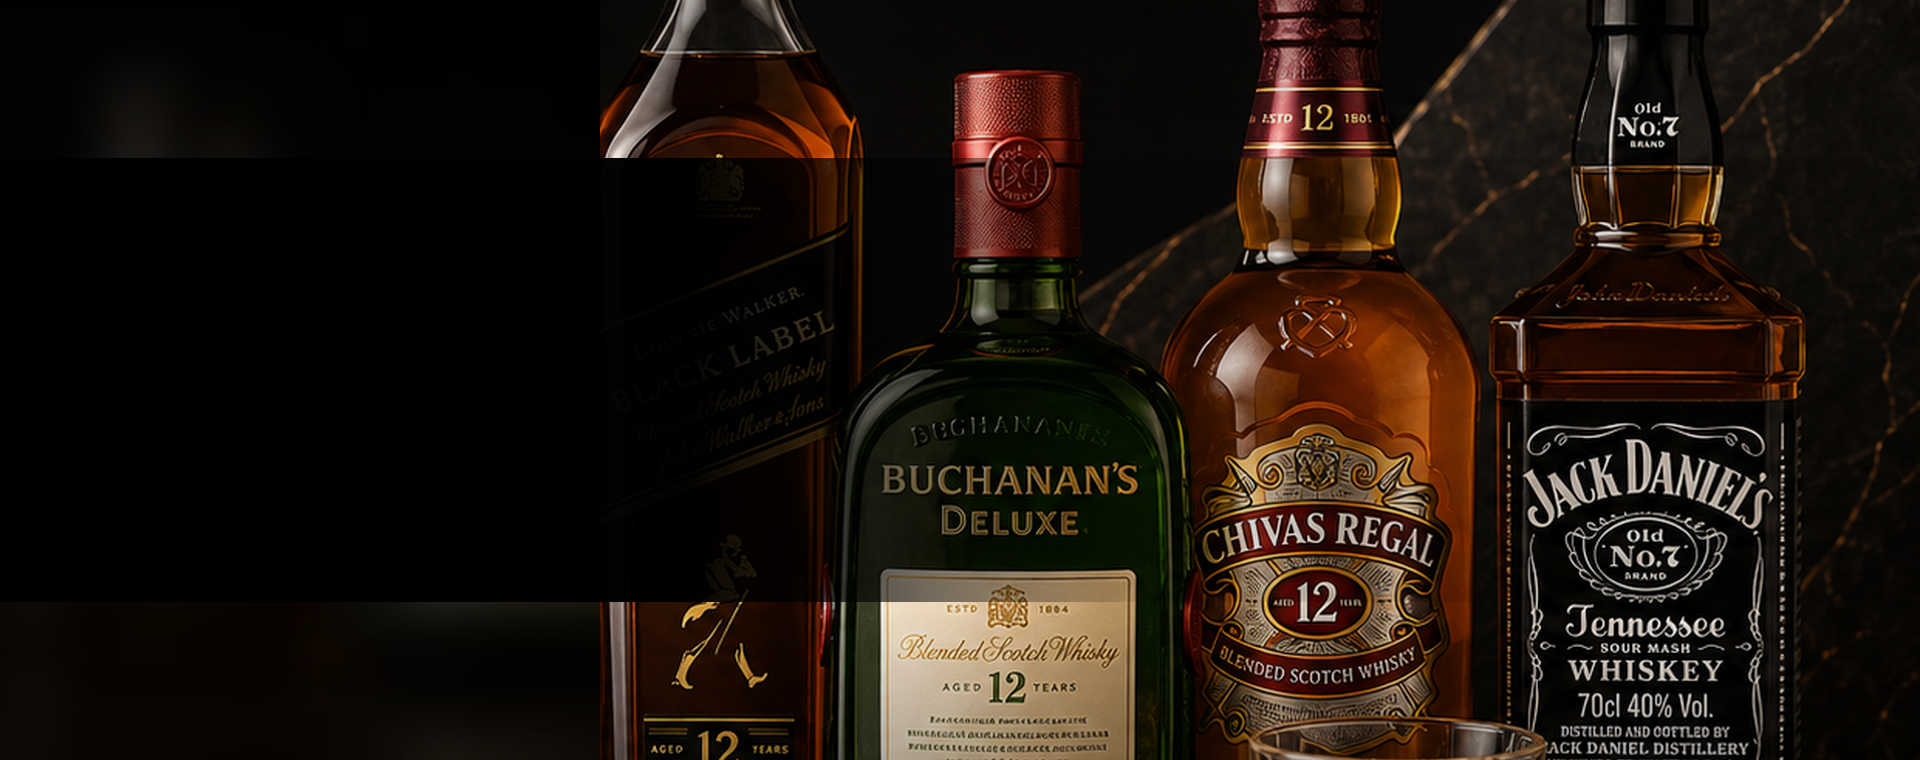
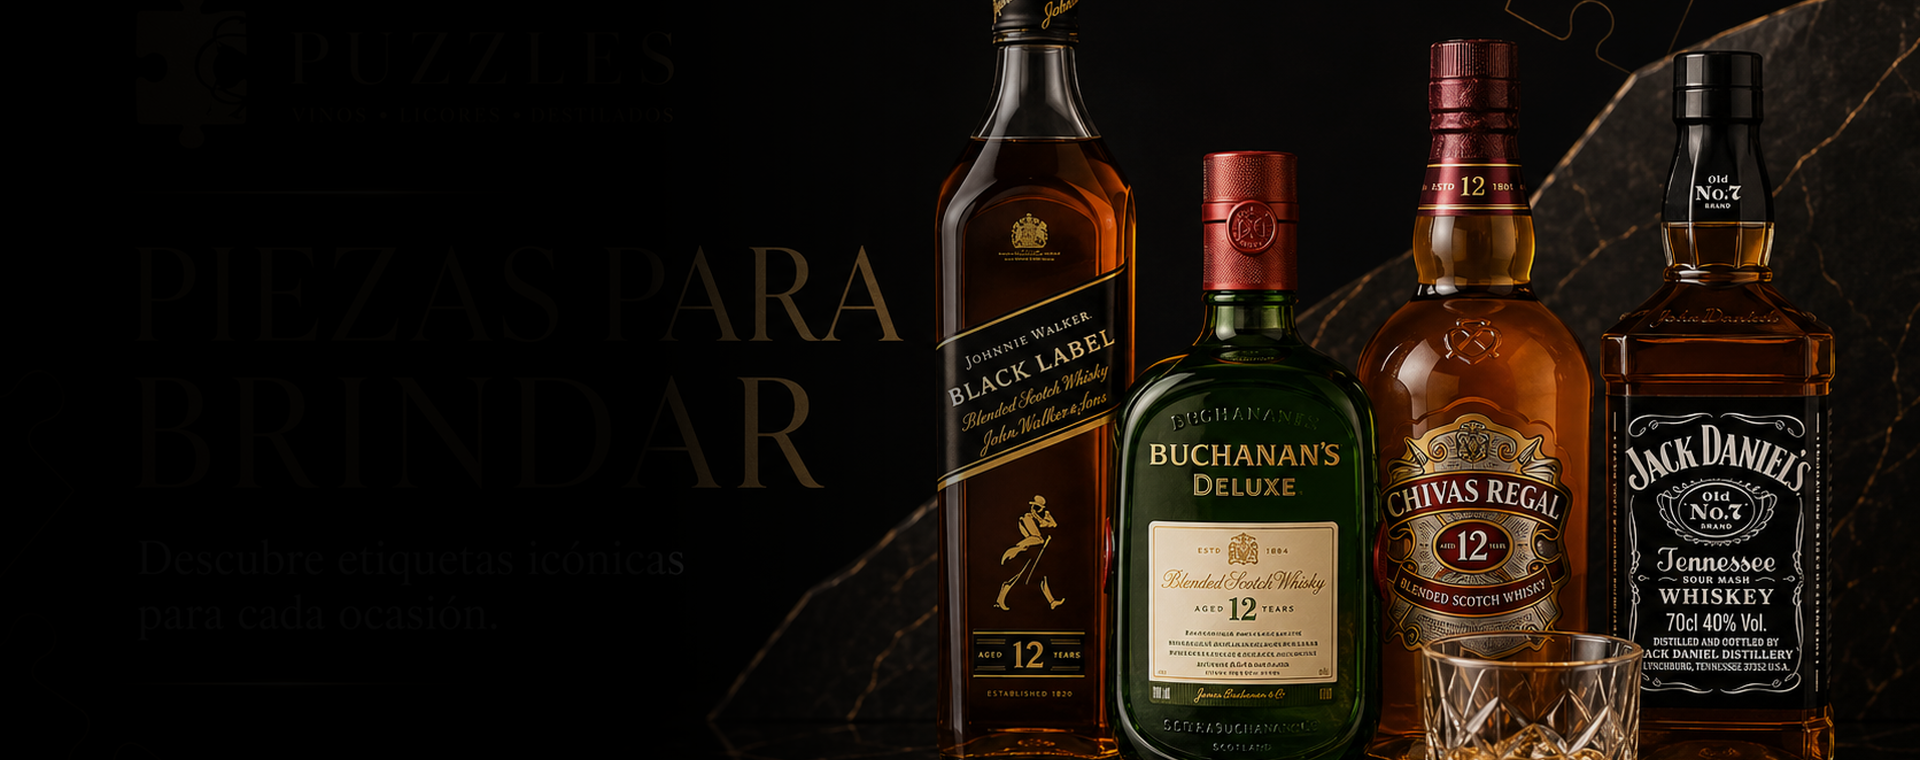
8

diff --git a/assets/puzzles-app-v1.5.8.js b/assets/puzzles-app-v1.5.8.js
@@ -150,13 +150,18 @@
 
       cacheDom();
 
-      // La tienda siempre abre en cuadrícula.
-      // Una preferencia vieja no puede forzar el modo lista.
+      // La vista inicial depende del dispositivo:
+      // móvil abre en lista y escritorio abre en cuadrícula.
+      // No se recuperan preferencias antiguas.
       puzzlesStorageRemove(
         STORAGE_KEYS.VIEW
       );
 
-      state.view = 'grid';
+      state.view = window.matchMedia(
+        '(max-width: 760px)'
+      ).matches
+        ? 'table'
+        : 'grid';
       bindEvents();
       restoreAgeGate();
       restoreCustomer();
@@ -1713,8 +1718,8 @@
 
           return `
             <article class="product-card" data-code="${escapeAttr(product.code)}">
-              <button class="product-card__visual product-open-button" type="button" data-product-detail="${escapeAttr(product.code)}" aria-label="Ver información de ${escapeAttr(product.displayName)}">
-                <div class="product-image-fallback" aria-hidden="true">
+              <button class="product-card__visual product-open-button" data-darkreader-lock style="background-color:#fff!important;color-scheme:light!important;forced-color-adjust:none!important" type="button" data-product-detail="${escapeAttr(product.code)}" aria-label="Ver información de ${escapeAttr(product.displayName)}">
+                <div class="product-image-fallback" data-darkreader-lock style="background-color:#fff!important;color-scheme:light!important;forced-color-adjust:none!important" aria-hidden="true">
                   <span>${escapeHtml(categoryLetter(product.category))}</span>
                 </div>
                 ${productImageMarkup(product, 'product-card__image', product.displayName)}
@@ -1810,8 +1815,8 @@
                 <tr>
                   <td class="product-table__product">
                     <button class="product-table__product-wrap product-row-button" type="button" data-product-detail="${escapeAttr(product.code)}">
-                      <span class="product-table__thumb">
-                        <span class="product-image-fallback" aria-hidden="true">
+                      <span class="product-table__thumb" data-darkreader-lock style="background-color:#fff!important;color-scheme:light!important;forced-color-adjust:none!important">
+                        <span class="product-image-fallback" data-darkreader-lock style="background-color:#fff!important;color-scheme:light!important;forced-color-adjust:none!important" aria-hidden="true">
                           <span>${escapeHtml(categoryLetter(product.category))}</span>
                         </span>
                         ${productImageMarkup(product, 'product-table__image', product.displayName)}
@@ -1912,10 +1917,12 @@
           class="${escapeAttr(className)} js-product-image"
           src="${escapeAttr(displayUrl)}"
           data-original-src="${escapeAttr(product.imageUrl)}"
+          data-darkreader-lock
           alt="${escapeAttr(alt || '')}"
           loading="lazy"
           decoding="async"
           referrerpolicy="no-referrer"
+          style="background-color:#fff!important;color-scheme:light!important;forced-color-adjust:none!important;filter:none!important;mix-blend-mode:normal!important"
         >`;
     }
 
@@ -3665,10 +3672,14 @@
             'ffffff'
           );
           proxyUrl.searchParams.set(
+            'bg',
+            'ffffff'
+          );
+          proxyUrl.searchParams.set(
             'output',
             'webp'
           );
-          proxyUrl.searchParams.set('q', '86');
+          proxyUrl.searchParams.set('q', '87');
           proxyUrl.searchParams.set('we', '1');
 
           return proxyUrl.toString();
@@ -3679,7 +3690,7 @@
         'https://images.weserv.nl/?url=' +
         encodeURIComponent(source) +
         '&w=900&h=900&fit=contain' +
-        '&cbg=ffffff&output=webp&q=86&we=1'
+        '&cbg=ffffff&bg=ffffff&output=webp&q=87&we=1'
       );
     }
 

diff --git a/assets/puzzles-app-v1.5.8.css b/assets/puzzles-app-v1.5.8.css
@@ -4940,3 +4940,134 @@ body[data-catalog-view="table"] #tableView {
     display: none;
   }
 }
+
+
+/* ============================================================
+   PUZZLES 1.5.8 · BANNER NATURAL + MÓVIL LISTA + FONDO BLANCO
+   ============================================================ */
+
+/*
+  ESCRITORIO:
+  El arte no se amplía por encima de 1920 px.
+  El carrusel es más bajo y recorta únicamente el excedente vertical.
+*/
+@media (min-width: 761px) {
+  .hero-carousel {
+    height: clamp(380px, 27vw, 520px) !important;
+    min-height: 380px !important;
+    max-height: 520px !important;
+    overflow: hidden !important;
+    background: #000 !important;
+  }
+
+  .hero-slide--controlled {
+    overflow: hidden !important;
+    background: #000 !important;
+  }
+
+  .hero-slide--controlled .hero-slide__artwork {
+    position: absolute !important;
+    inset: auto !important;
+    top: 50% !important;
+    left: 50% !important;
+    width: min(100%, 1920px) !important;
+    height: auto !important;
+    max-width: 1920px !important;
+    max-height: none !important;
+    object-fit: contain !important;
+    transform: translate(-50%, -50%) !important;
+    image-rendering: auto !important;
+  }
+
+  .hero-slide--controlled .hero-slide__shade {
+    top: 0 !important;
+    bottom: 0 !important;
+    left: 50% !important;
+    width: min(100%, 1920px) !important;
+    transform: translateX(-50%) !important;
+  }
+}
+
+/*
+  MÓVIL:
+  El banner llena el espacio con recorte controlado y un zoom ligero.
+  Esto evita que se vea aplastado o con proporciones incorrectas.
+*/
+@media (max-width: 760px) {
+  .hero-carousel {
+    height: clamp(430px, 118vw, 520px) !important;
+    min-height: 430px !important;
+    max-height: 520px !important;
+    overflow: hidden !important;
+    background: #000 !important;
+  }
+
+  .hero-slide--controlled .hero-slide__artwork {
+    position: absolute !important;
+    inset: auto !important;
+    top: 50% !important;
+    left: 50% !important;
+    width: auto !important;
+    height: 100% !important;
+    min-width: 100% !important;
+    max-width: none !important;
+    max-height: none !important;
+    object-fit: cover !important;
+    object-position: 72% center !important;
+    transform:
+      translate(-50%, -50%)
+      scale(1.06) !important;
+    image-rendering: auto !important;
+  }
+
+  .hero-slide--controlled .hero-slide__shade {
+    inset: 0 !important;
+    width: 100% !important;
+    transform: none !important;
+  }
+}
+
+/* Superficies de producto protegidas contra inversión automática. */
+.product-card__visual,
+.product-table__thumb,
+.cart-item__visual,
+.pdp-image-button,
+.image-zoom-modal,
+.product-image-fallback {
+  background: #fff !important;
+  background-color: #fff !important;
+  color-scheme: light !important;
+  forced-color-adjust: none !important;
+  isolation: isolate !important;
+  filter: none !important;
+}
+
+.product-card__visual::before,
+.product-card__visual::after,
+.product-table__thumb::before,
+.product-table__thumb::after {
+  display: none !important;
+  content: none !important;
+}
+
+.product-card__image,
+.product-table__image,
+.cart-item__image,
+.pdp-image,
+.image-zoom-modal img,
+.js-product-image {
+  background: #fff !important;
+  background-color: #fff !important;
+  color-scheme: light !important;
+  forced-color-adjust: none !important;
+  mix-blend-mode: normal !important;
+  filter: none !important;
+  opacity: 1 !important;
+  -webkit-print-color-adjust: exact !important;
+  print-color-adjust: exact !important;
+}
+
+/* Dark Reader reconoce este atributo; otros extensores conservan el inline. */
+[data-darkreader-lock] {
+  forced-color-adjust: none !important;
+}

diff --git a/sw.js b/sw.js
@@ -1,4 +1,4 @@
-const CACHE_NAME = 'puzzles-shell-v1.5.8-popup-admin-fix';
+const CACHE_NAME = 'puzzles-shell-v1.5.8-banner-natural-white-mobile-list';
 
 const SHELL_FILES = [
   './',
